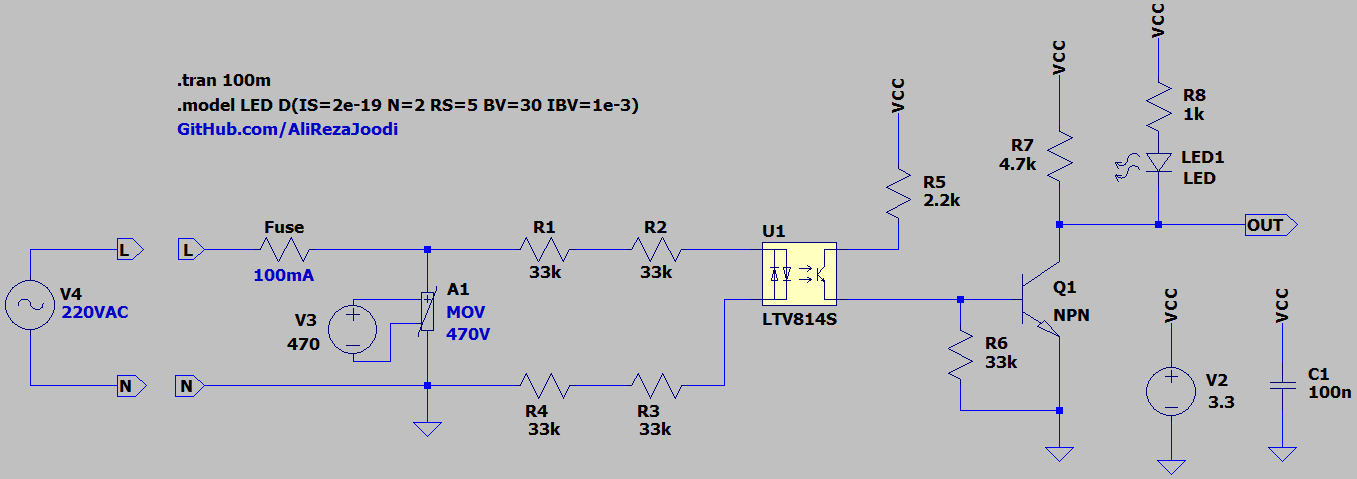
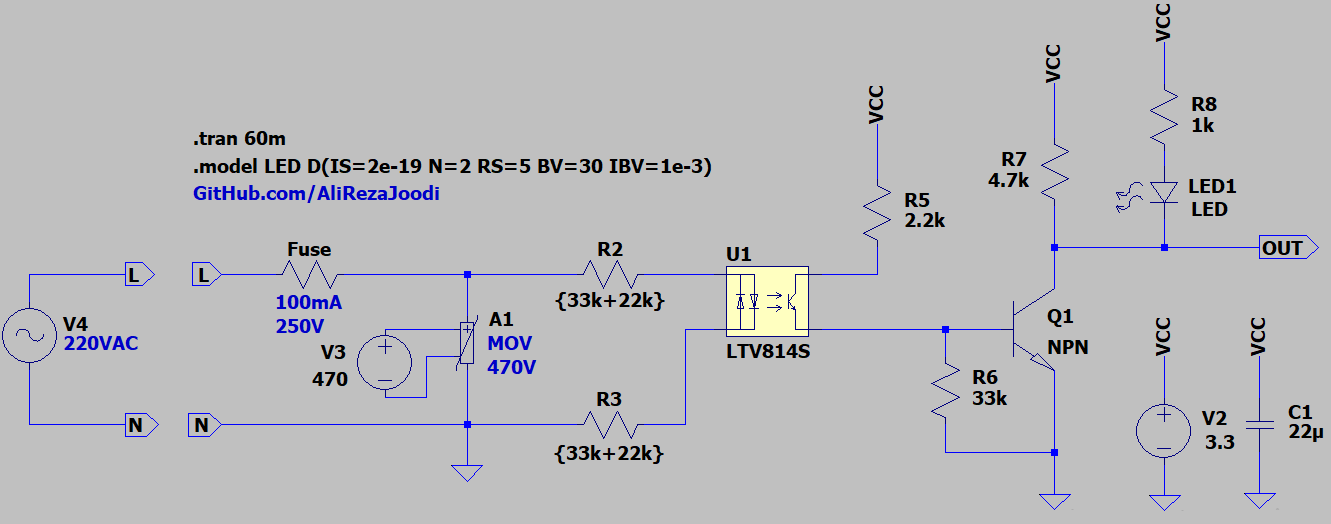
chore: update

diff --git a/AcLine_ThyristorProtection/README.md b/AcLine_ThyristorProtection/README.md
@@ -1,4 +1,4 @@
-## Thyristor Protection
+## Thyristor Protection, RC Snubber
 
 ### Simulate
 v1.0, Schematic  
